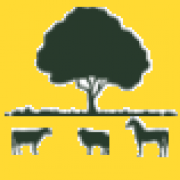
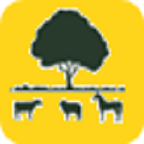
a

diff --git a/index.html b/index.html
@@ -25,7 +25,7 @@
 
     <title>アード・ソシヨ競馬部-Top</title>
     <link rel="shortcut icon" href="./img/favicon.ico" type="image/x-icon" />
-    <link rel="apple-touch-icon" href="apple-touch-icon.png" sizes="180x180" />
+    <link rel="apple-touch-icon" href="apple-touch-icon.png" sizes="144x144" />
     <link
       rel="icon"
       type="image/png"
